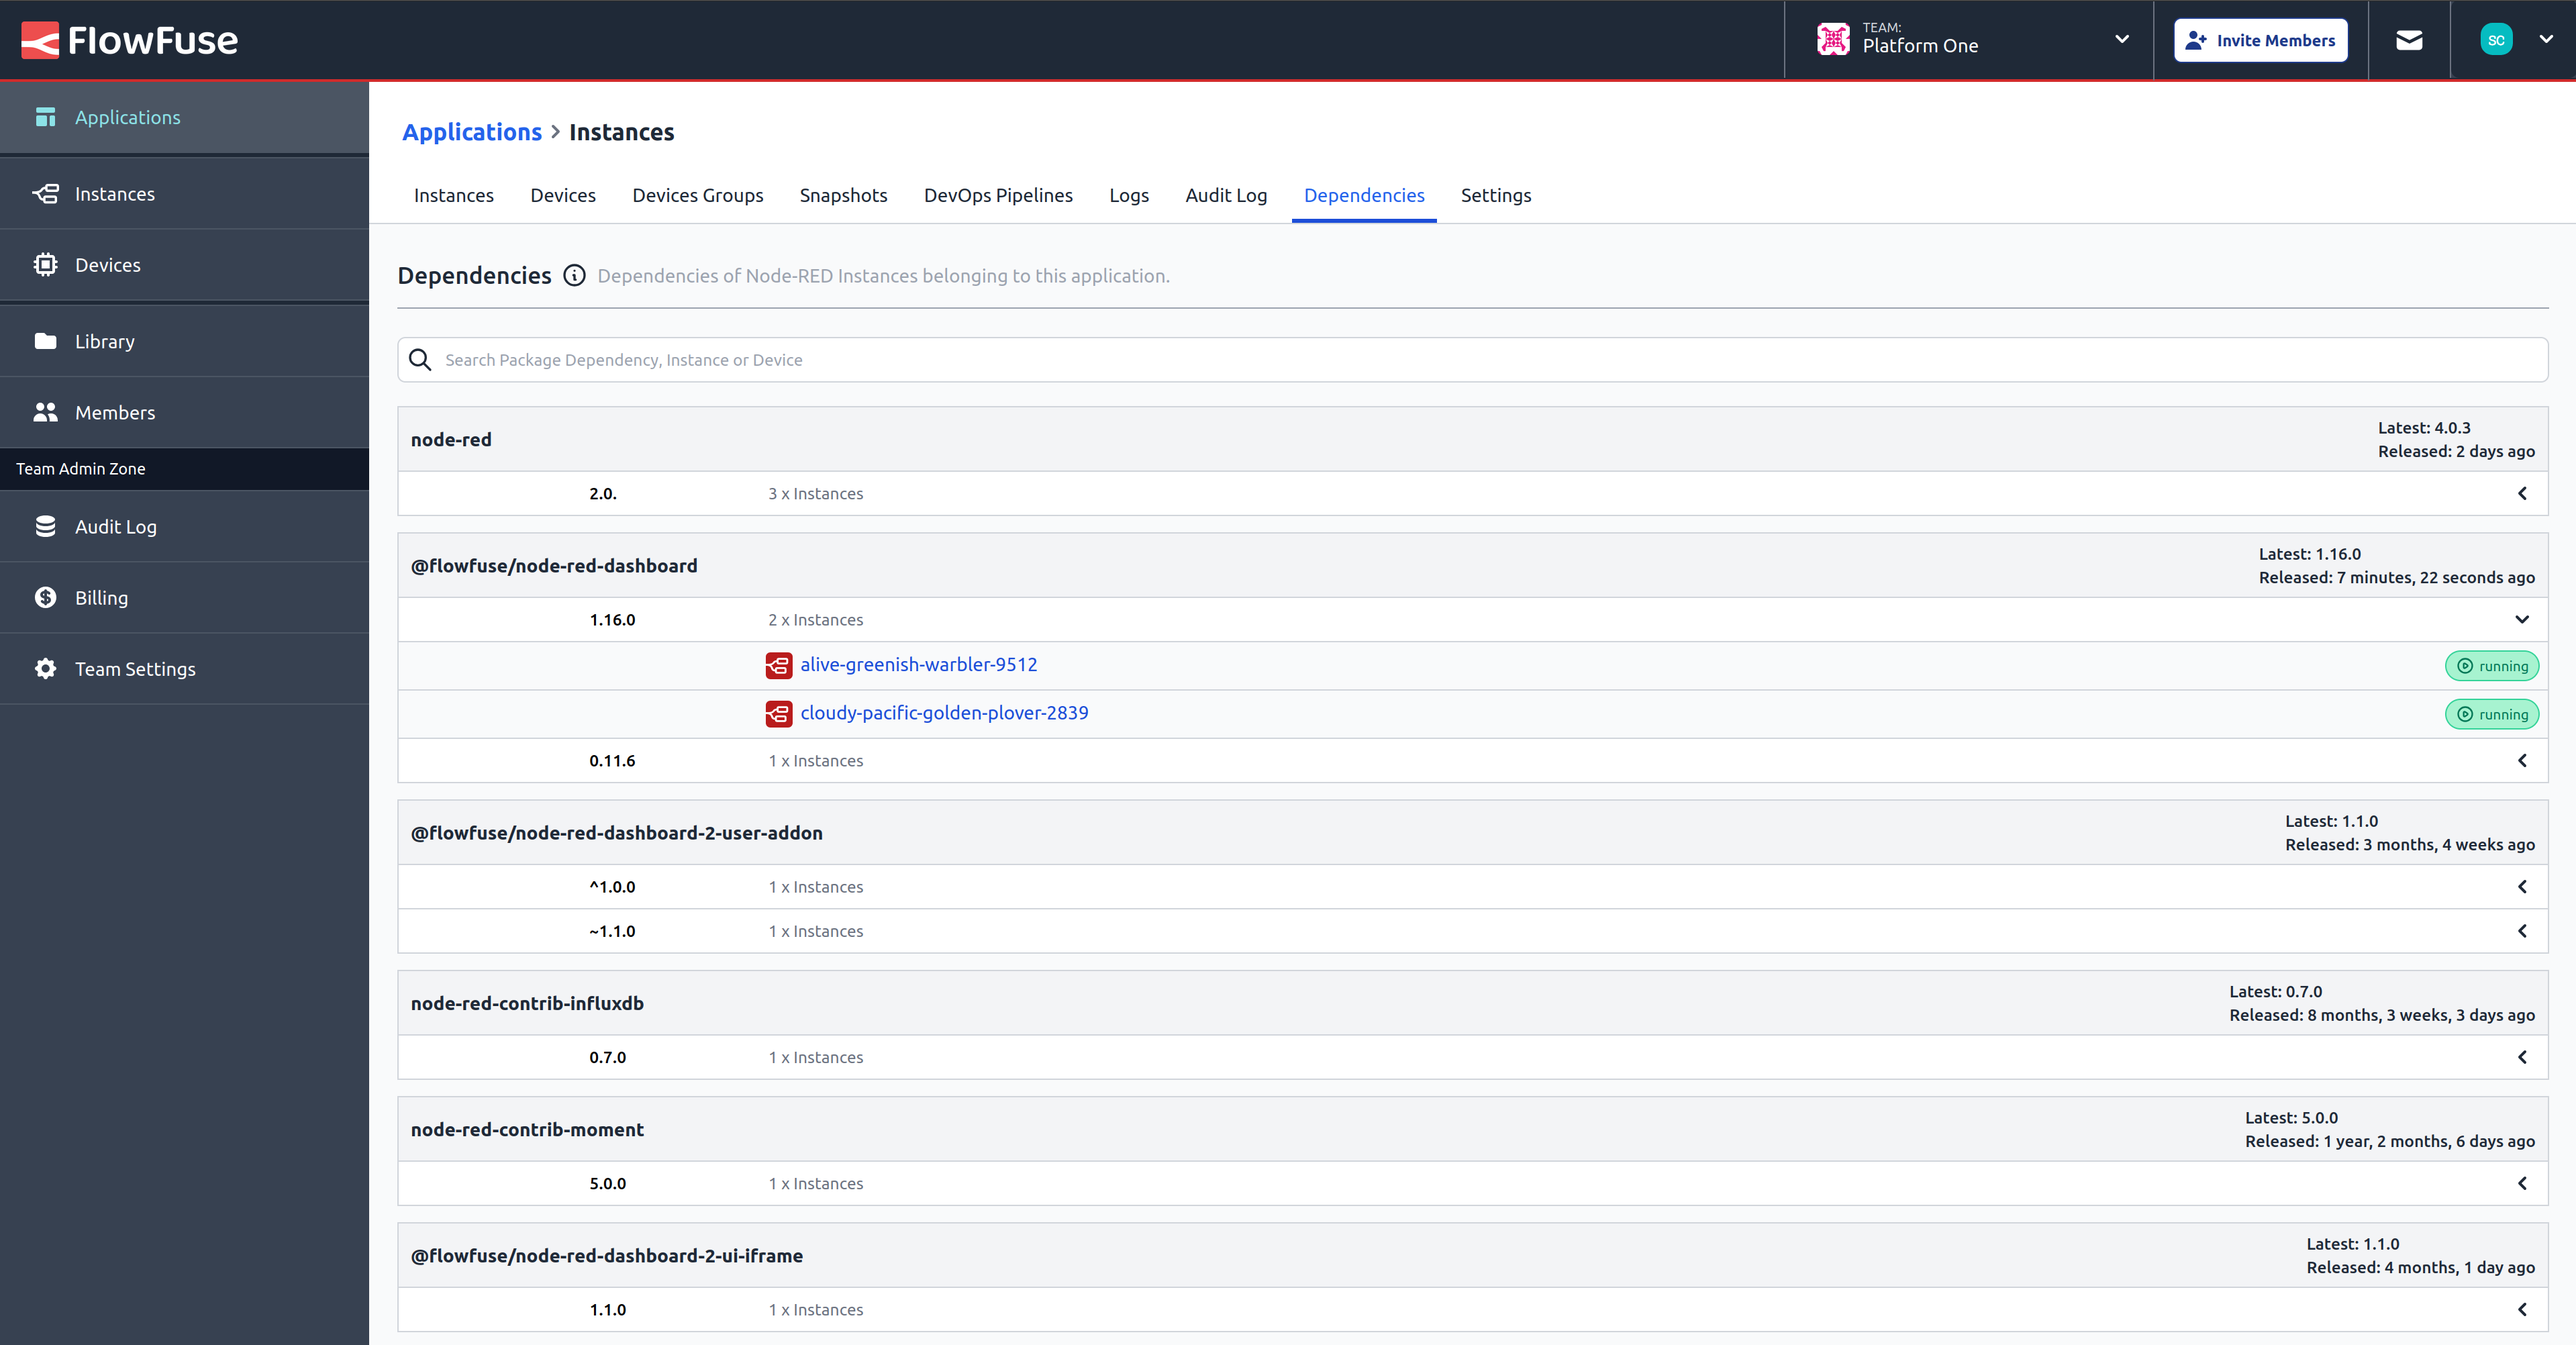
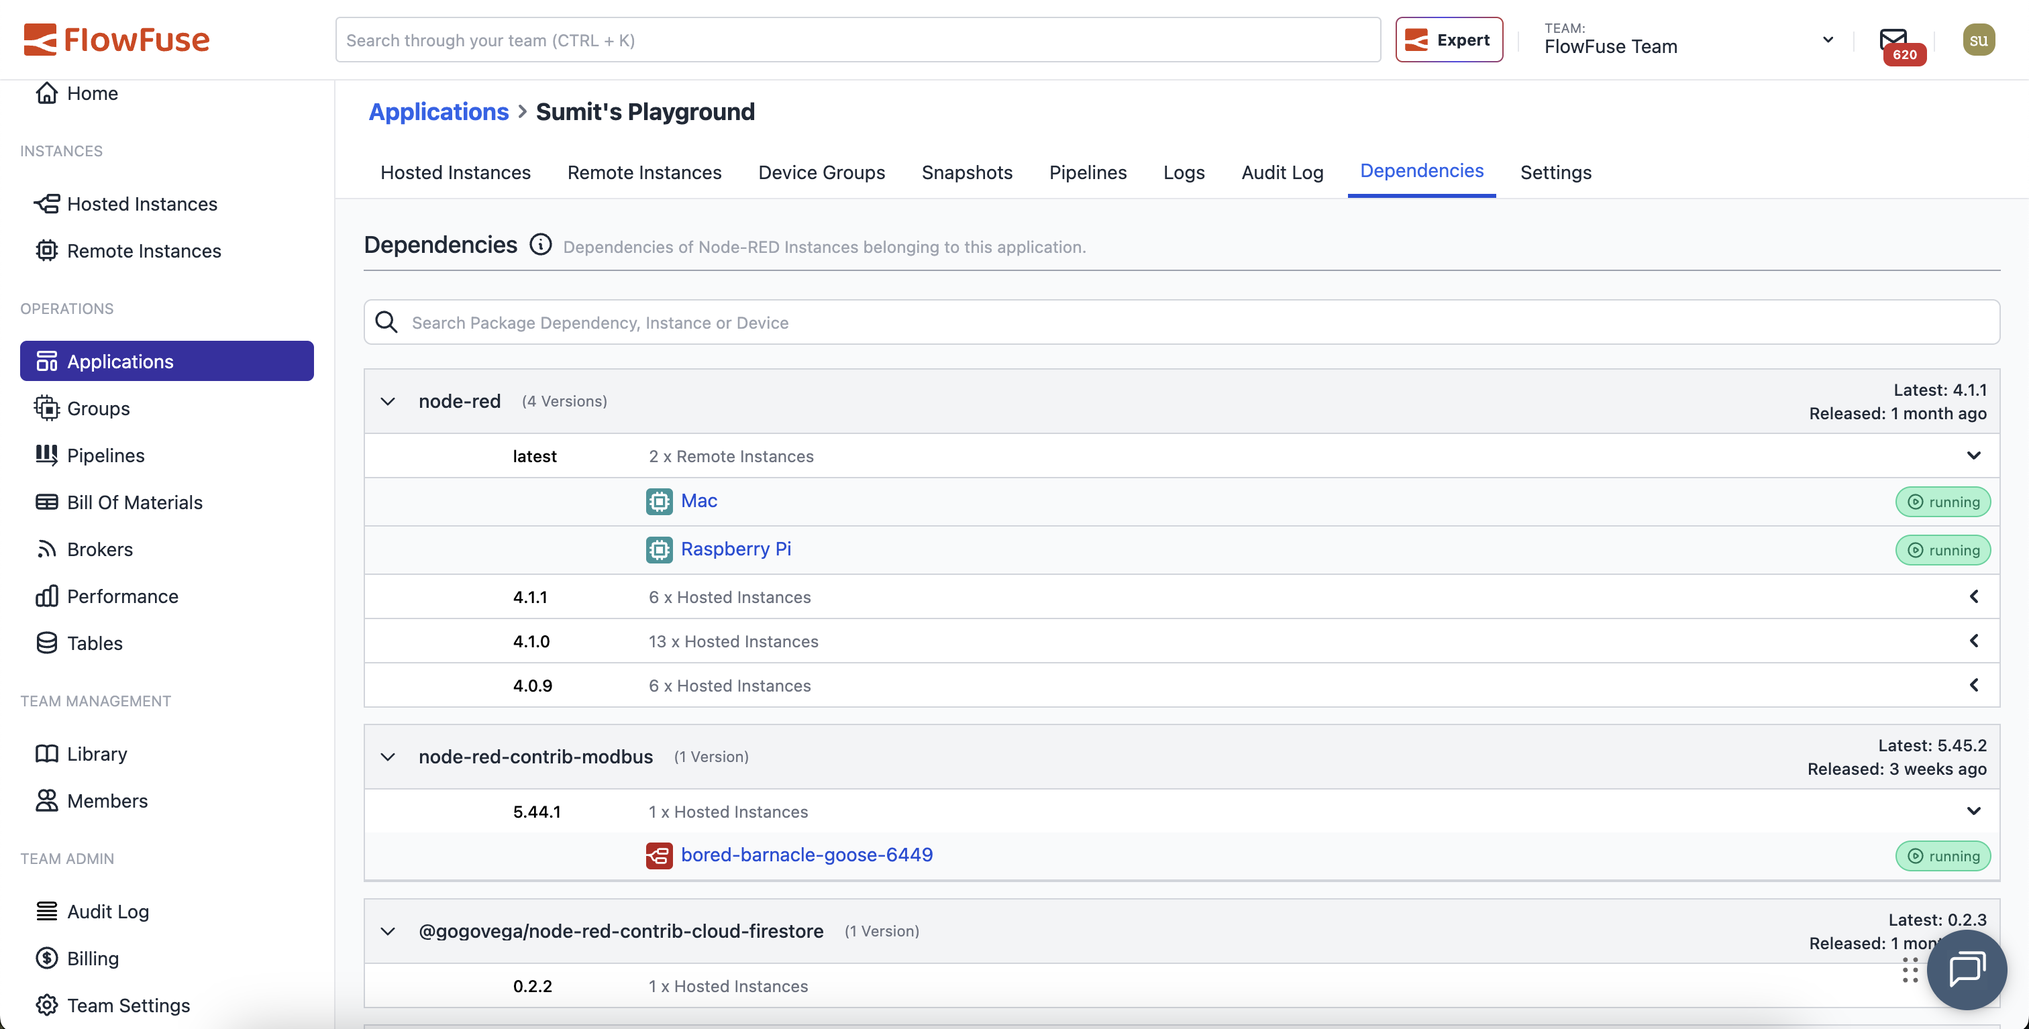
Improve Bills of material, update screenshots

Changed region(s): [[0.0, 0.0, 1.0, 1.0], [0.8704, 0.8885, 1.0, 1.0], [0.2176, 0.4596, 0.2487, 0.4902]]

diff --git a/docs/user/bill-of-materials.md b/docs/user/bill-of-materials.md
@@ -5,19 +5,28 @@ navOrder: 2
 
 # Bill of Materials
 
-Our platform now includes an Application Bill of Materials (BoM), providing a comprehensive overview of all instance dependencies associated with each application. This feature empowers you to monitor, manage, and analyze the full range of components your applications rely on, ensuring better visibility and control over dependencies.
+The Application Bill of Materials (BoM) provides a comprehensive overview of all instance dependencies for each application. This feature gives you visibility and control to monitor, manage, and analyze the components your applications rely on.
 
-The Bill of Materials is located within the Dependencies tab of each application, making it easy to access and review at any time. 
+## Accessing the Bill of Materials
+
+The BoM is located in the **Dependencies** tab of each application.
+
 ![bom.png](images/bom.png)
 
-Additionally, the integrated search function allows users to efficiently search through devices and instances assigned to the current application. 
-You can search by instance/device name, package name, specific dependency, or even dependency version, ensuring you can quickly find the information you need to manage your application’s dependencies with precision and ease.
+## Search Functionality
+
+Use the integrated search to efficiently find devices and instances assigned to your application. Search by:
+
+- Instance or device name
+- Package name
+- Specific dependency
+- Dependency version
 
 ## Prerequisites
+
 ### FlowFuse Cloud
-- A Instance Stack with a launcher version of 2.9.0 or greater.
-- Enterprise Team Type.
+- Instance Stack with launcher version **2.9.0 or higher**
+- **Enterprise Team Type** required
 
 ### Self-Hosted
-
-This feature is available only on self-hosted Enterprise licensed versions of FlowFuse.
+- Available only with **Enterprise license**
